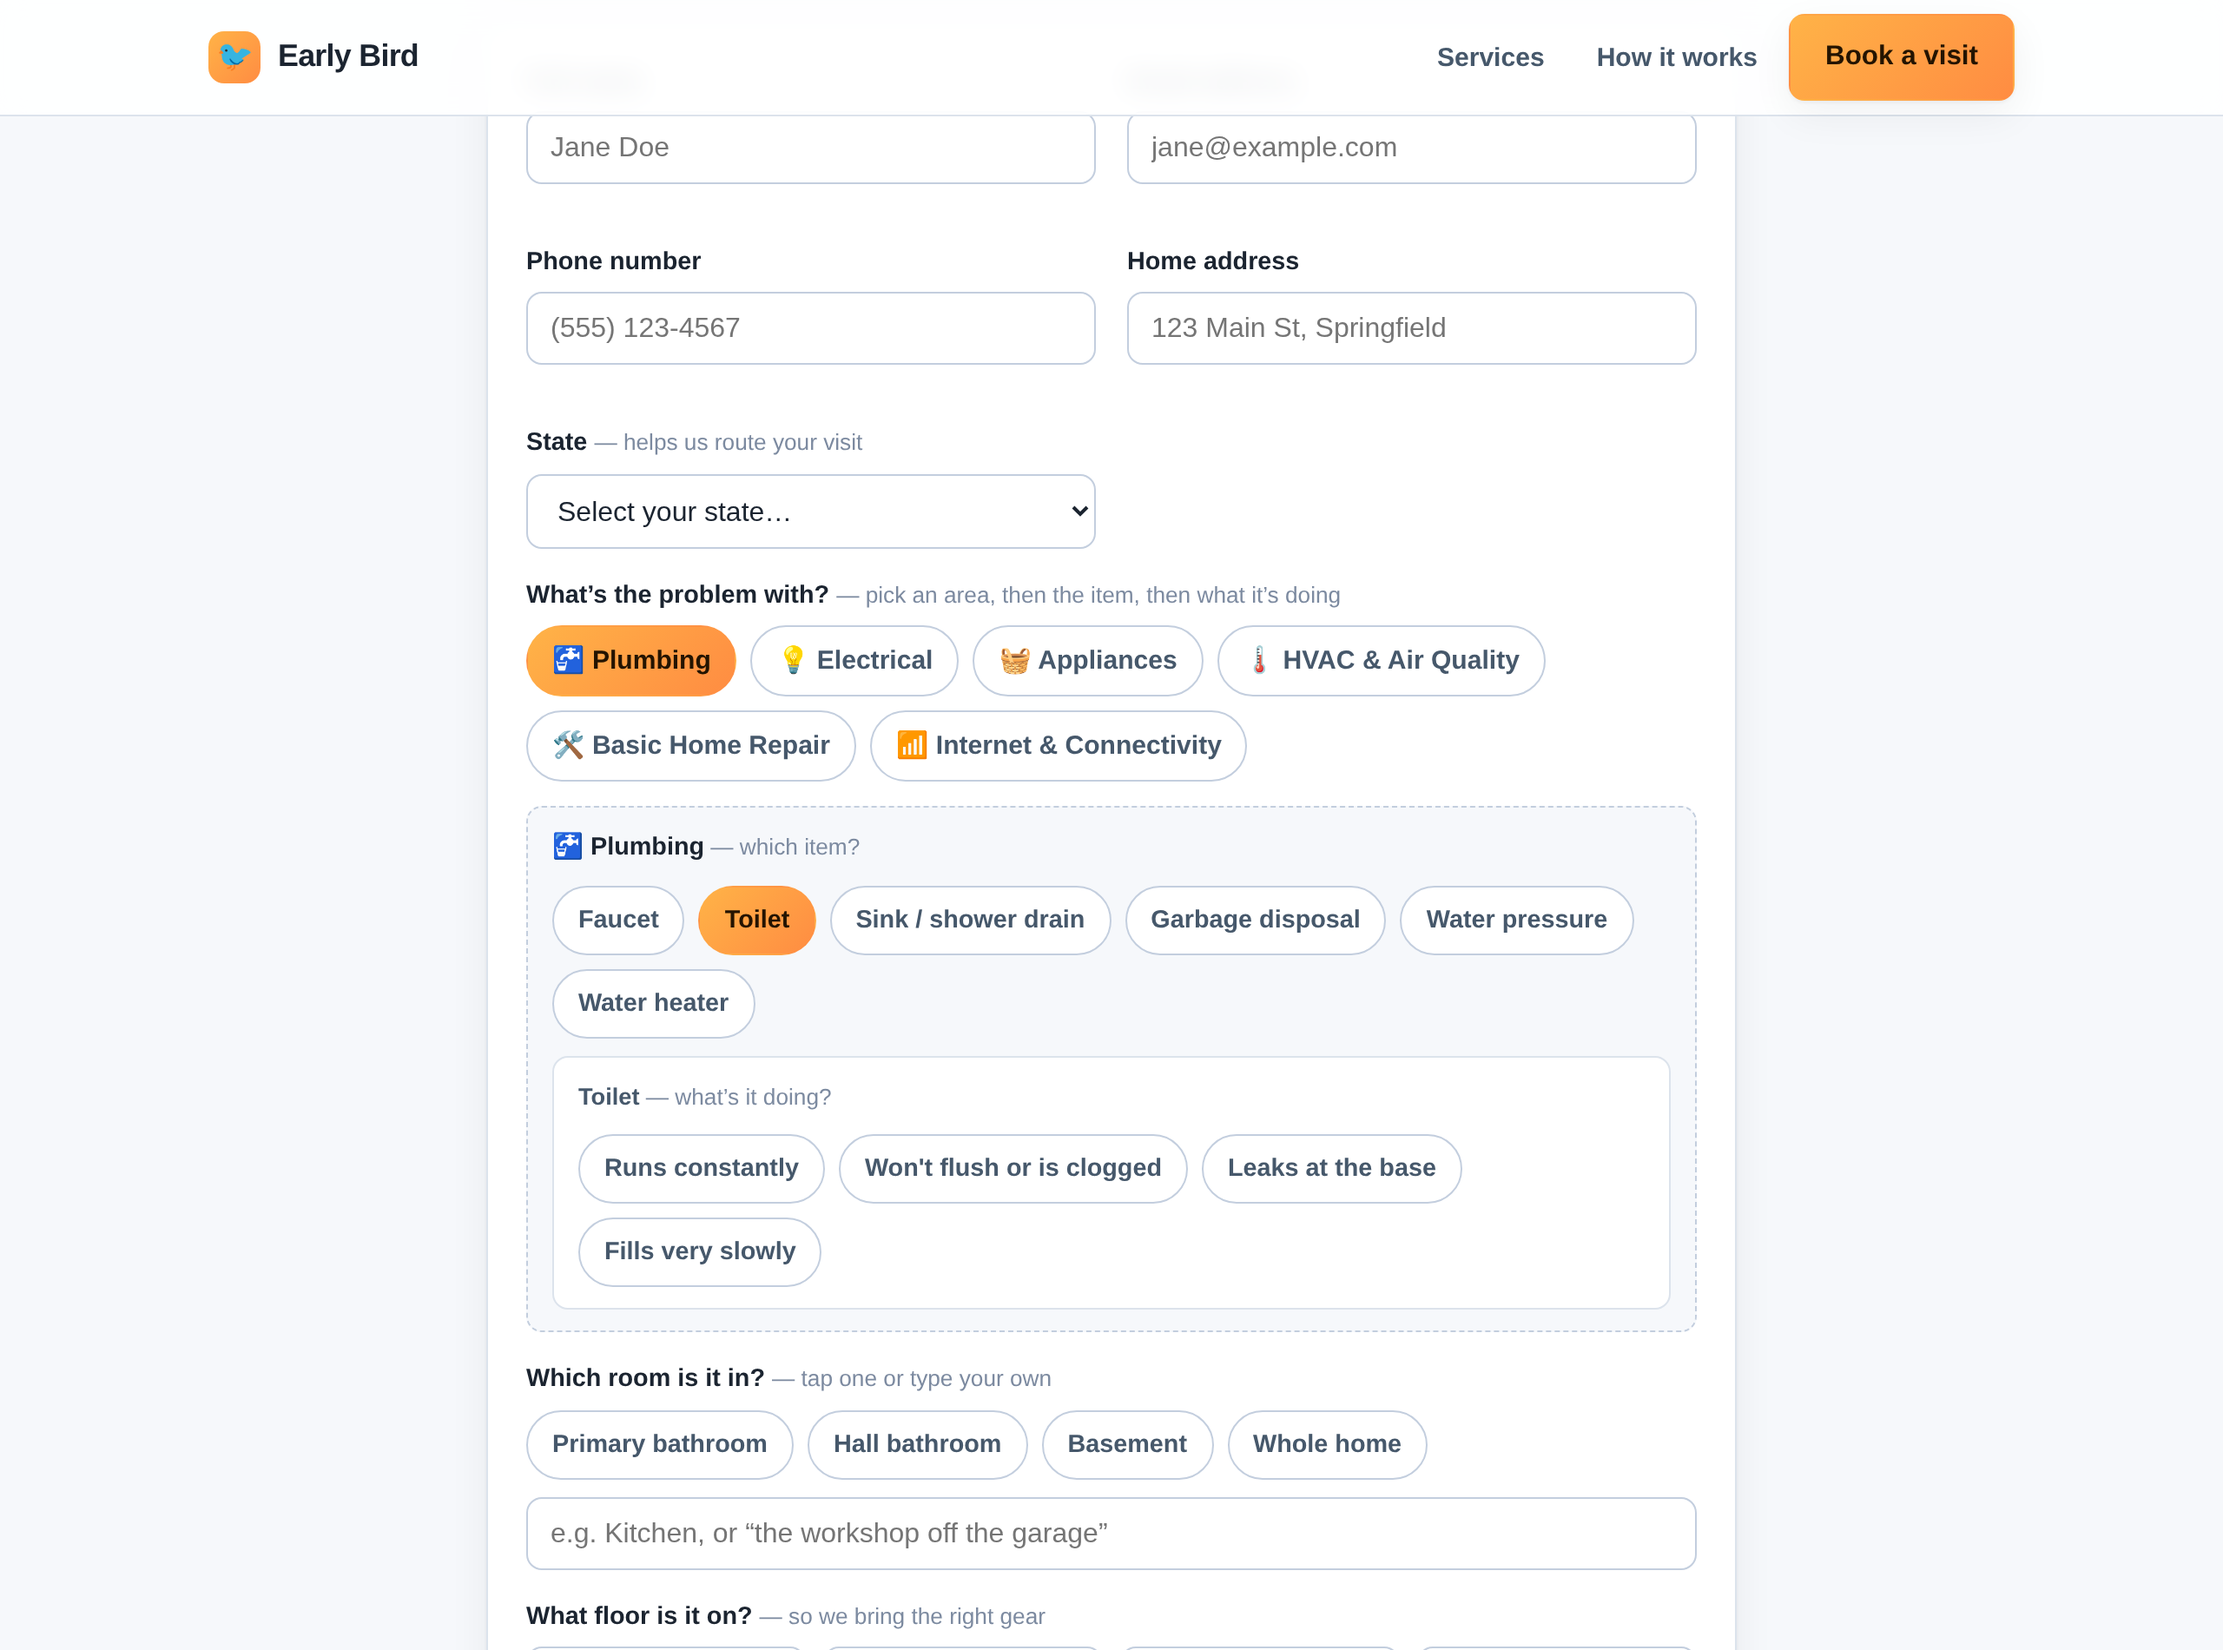
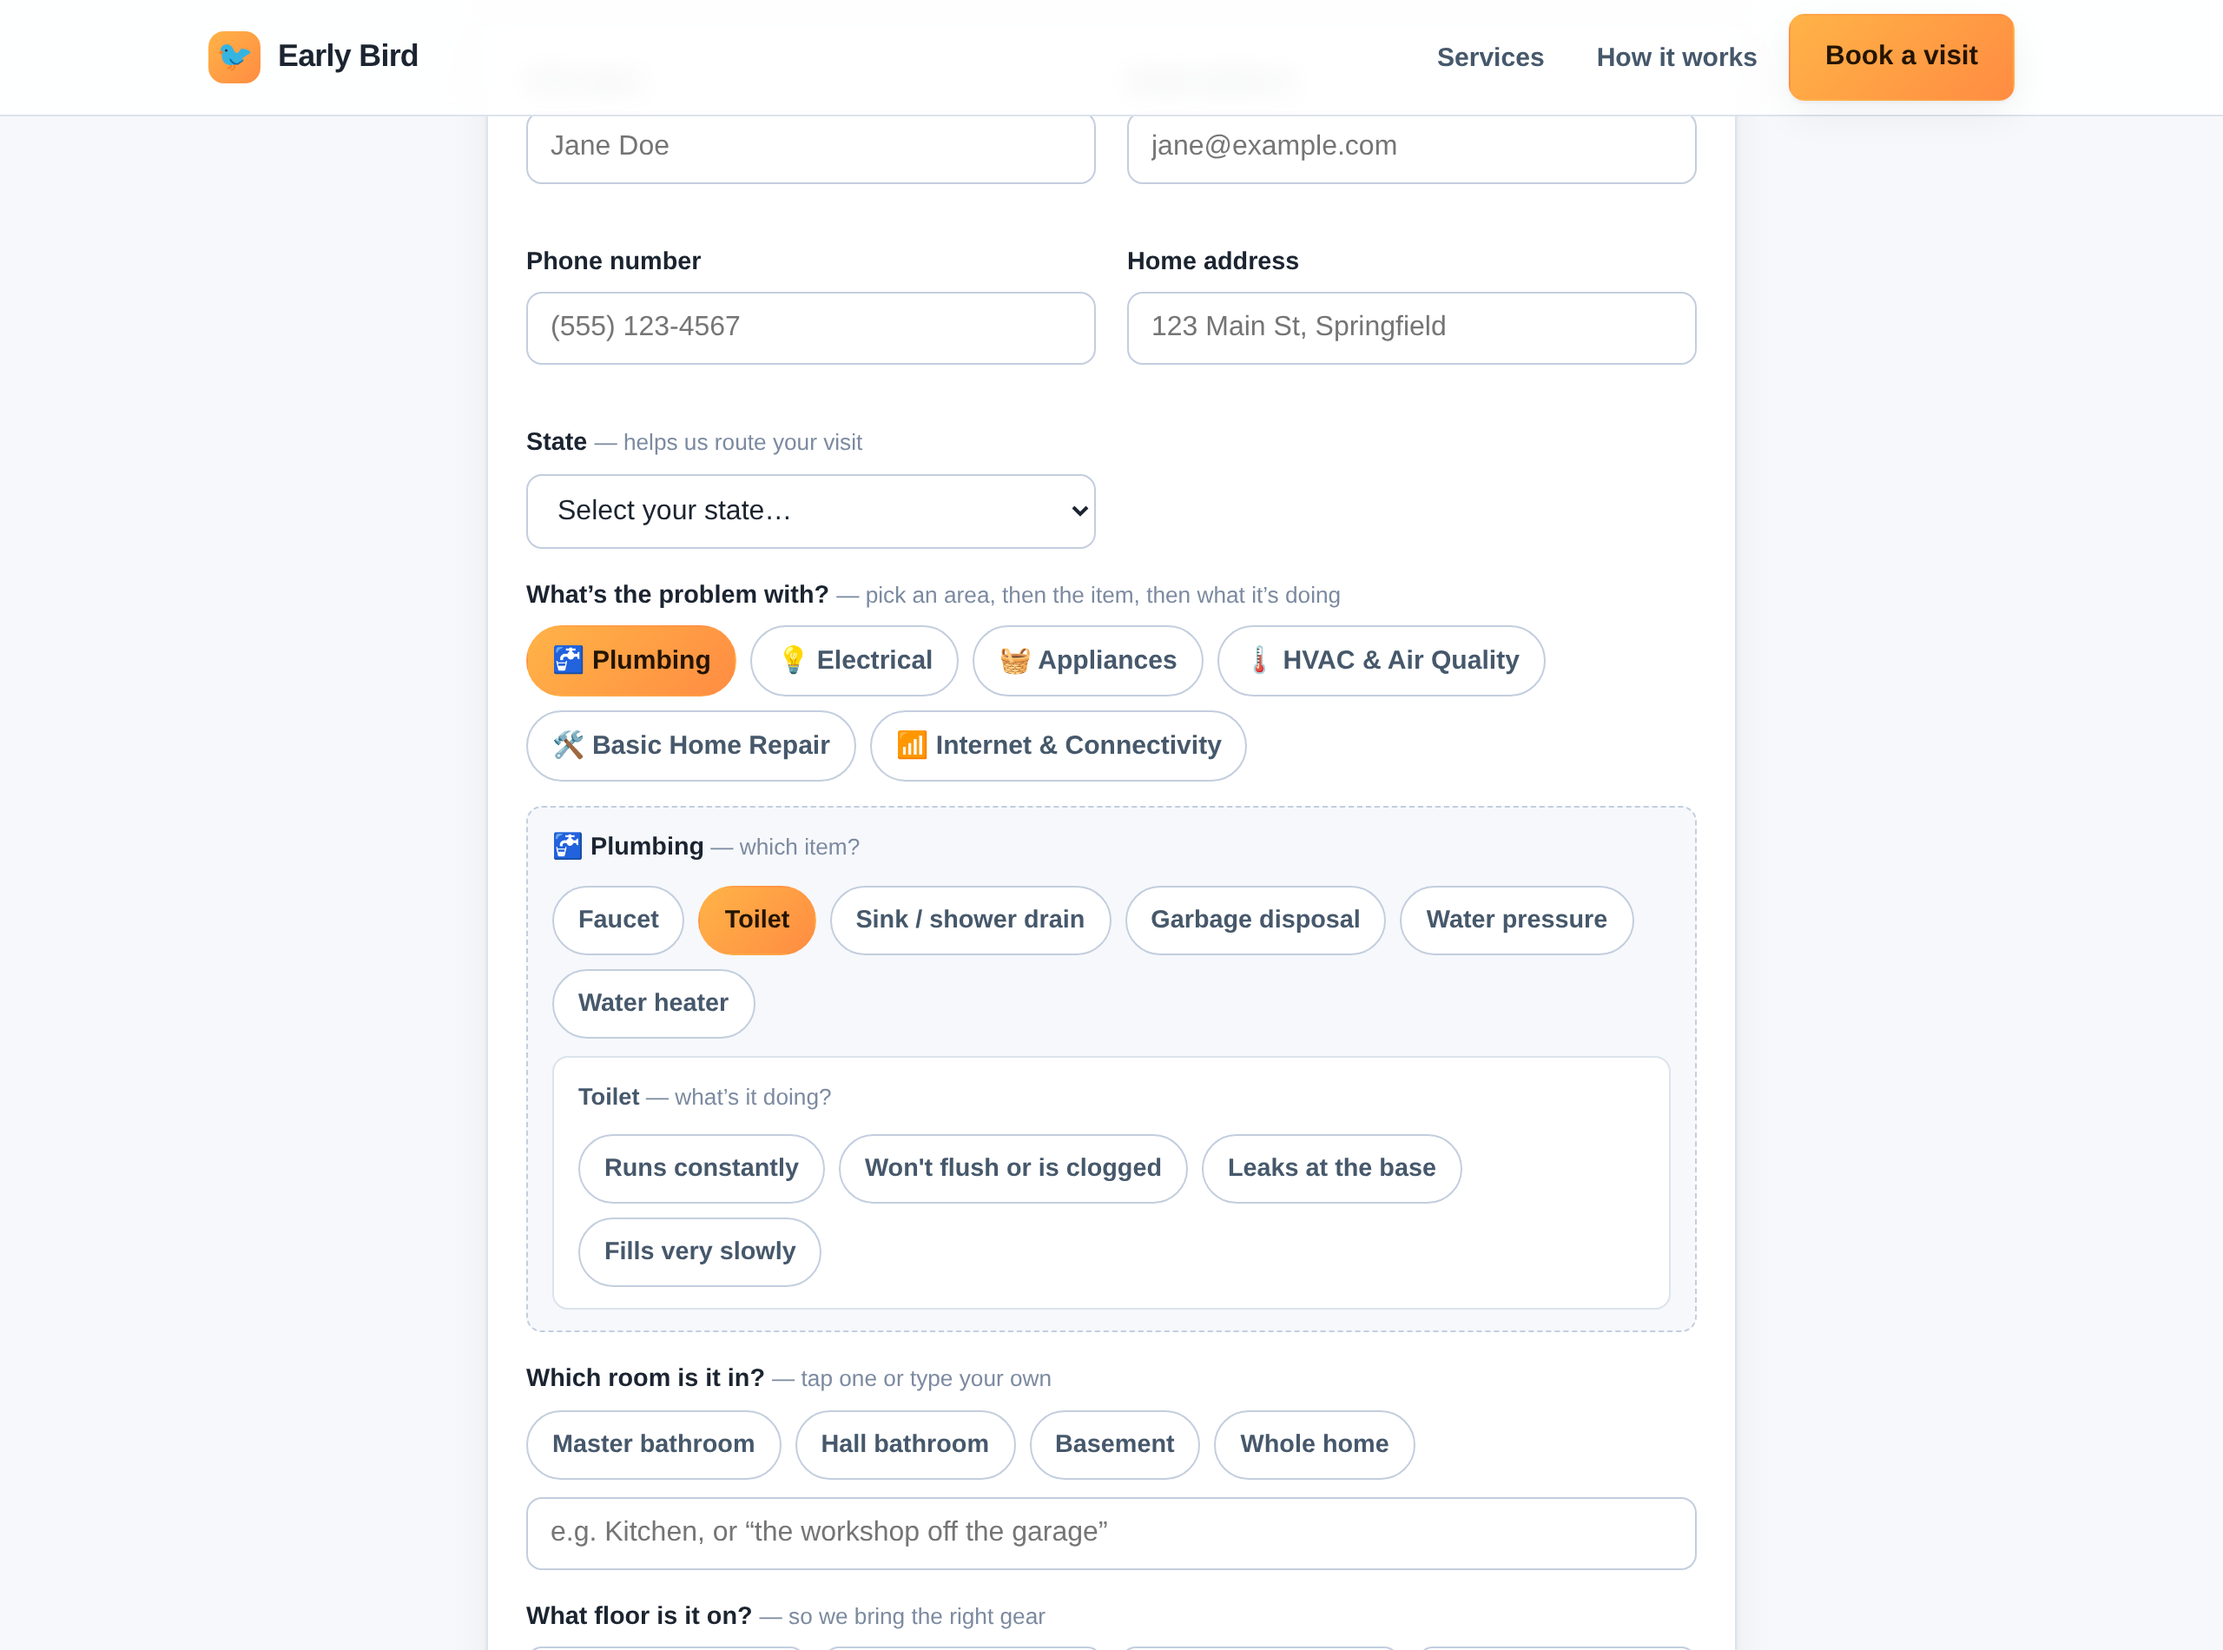
Rename room labels "Primary" -> "Master" (bathroom, bedroom)
Update the room palette and the fixtures the picker filters on, plus the
test fixtures that reference them, and refresh the room-picker screenshot.

Claude-Session: https://claude.ai/code/session_01PRhoebT3Zy8gMdtcgEmT5q

diff --git a/tests/unit/rooms.test.ts b/tests/unit/rooms.test.ts
@@ -12,12 +12,12 @@ describe("suggestRooms — issue-aware room filtering", () => {
 
   it("narrows a toilet to bathrooms + basement, excluding kitchen/attic", () => {
     const rooms = suggestRooms(["plumbing:toilet"]);
-    expect(rooms).toContain("Primary bathroom");
+    expect(rooms).toContain("Master bathroom");
     expect(rooms).toContain("Hall bathroom");
     expect(rooms).toContain("Basement");
     expect(rooms).not.toContain("Kitchen");
     expect(rooms).not.toContain("Attic");
-    expect(rooms).not.toContain("Primary bedroom");
+    expect(rooms).not.toContain("Master bedroom");
     // Whole home stays available as a catch-all.
     expect(rooms).toContain(WHOLE_HOME);
   });
@@ -25,7 +25,7 @@ describe("suggestRooms — issue-aware room filtering", () => {
   it("keeps a garbage disposal in the kitchen only", () => {
     const rooms = suggestRooms(["plumbing:disposal"]);
     expect(rooms).toContain("Kitchen");
-    expect(rooms).not.toContain("Primary bathroom");
+    expect(rooms).not.toContain("Master bathroom");
     expect(rooms).not.toContain("Attic");
   });
 
@@ -34,12 +34,12 @@ describe("suggestRooms — issue-aware room filtering", () => {
     expect(rooms).toContain("Basement");
     expect(rooms).toContain("Garage");
     expect(rooms).not.toContain("Kitchen");
-    expect(rooms).not.toContain("Primary bedroom");
+    expect(rooms).not.toContain("Master bedroom");
   });
 
   it("unions rooms across multiple constrained issues", () => {
     const rooms = suggestRooms(["plumbing:toilet", "appliance:dishwasher"]);
-    expect(rooms).toContain("Primary bathroom"); // from toilet
+    expect(rooms).toContain("Master bathroom"); // from toilet
     expect(rooms).toContain("Kitchen"); // from dishwasher
   });
 

diff --git a/tests/api/checkout.api.test.ts b/tests/api/checkout.api.test.ts
@@ -33,7 +33,7 @@ async function newIntake(overrides: Record<string, unknown> = {}) {
       phone: "5551239876",
       address: "500 Oak St, Springfield IL",
       affectedServices: ["Faucet — Drips when shut off"],
-      room: "Primary bathroom",
+      room: "Master bathroom",
       floor: "second",
       description: "the bathroom faucet drips all night",
       ...overrides,
@@ -51,7 +51,7 @@ async function newIntake(overrides: Record<string, unknown> = {}) {
 describe("intake — room, floor and photos", () => {
   it("stores the room and floor on the submission", async () => {
     const { submission } = await newIntake();
-    expect(submission.input.room).toBe("Primary bathroom");
+    expect(submission.input.room).toBe("Master bathroom");
     expect(submission.input.floor).toBe("second");
   });
 

diff --git a/lib/rooms.ts b/lib/rooms.ts
@@ -38,7 +38,7 @@ export const ROOM_CATALOG: RoomOption[] = [
     fixtures: ["sink", "kitchen_sink", "water", "dishwasher", "oven", "microwave", "fridge", "ice_maker", "wet", "power", "vent", "network"],
   },
   {
-    name: "Primary bathroom",
+    name: "Master bathroom",
     fixtures: ["toilet", "shower", "sink", "water", "wet", "power", "vent", "exhaust_fan"],
   },
   {
@@ -50,7 +50,7 @@ export const ROOM_CATALOG: RoomOption[] = [
     fixtures: ["living", "power", "vent", "thermostat", "tv", "network"],
   },
   {
-    name: "Primary bedroom",
+    name: "Master bedroom",
     fixtures: ["bedroom", "power", "vent", "tv", "network"],
   },
   {

diff --git a/tests/unit/issues.test.ts b/tests/unit/issues.test.ts
@@ -74,7 +74,7 @@ describe("assessIssue — drill-down phrasing and stray-keyword defense", () => 
   // The symptom chips phrase problems as verbs while the catalog uses gerunds.
   it("matches a drill-down selection to the catalog issue", () => {
     const a = assessIssue(
-      "Faucet — Drips when shut off Faucet — Leaks at the base Primary bathroom",
+      "Faucet — Drips when shut off Faucet — Leaks at the base Master bathroom",
     );
     expect(a).not.toBeNull();
     expect(a!.issue.issue).toMatch(/dripping faucet/i);
